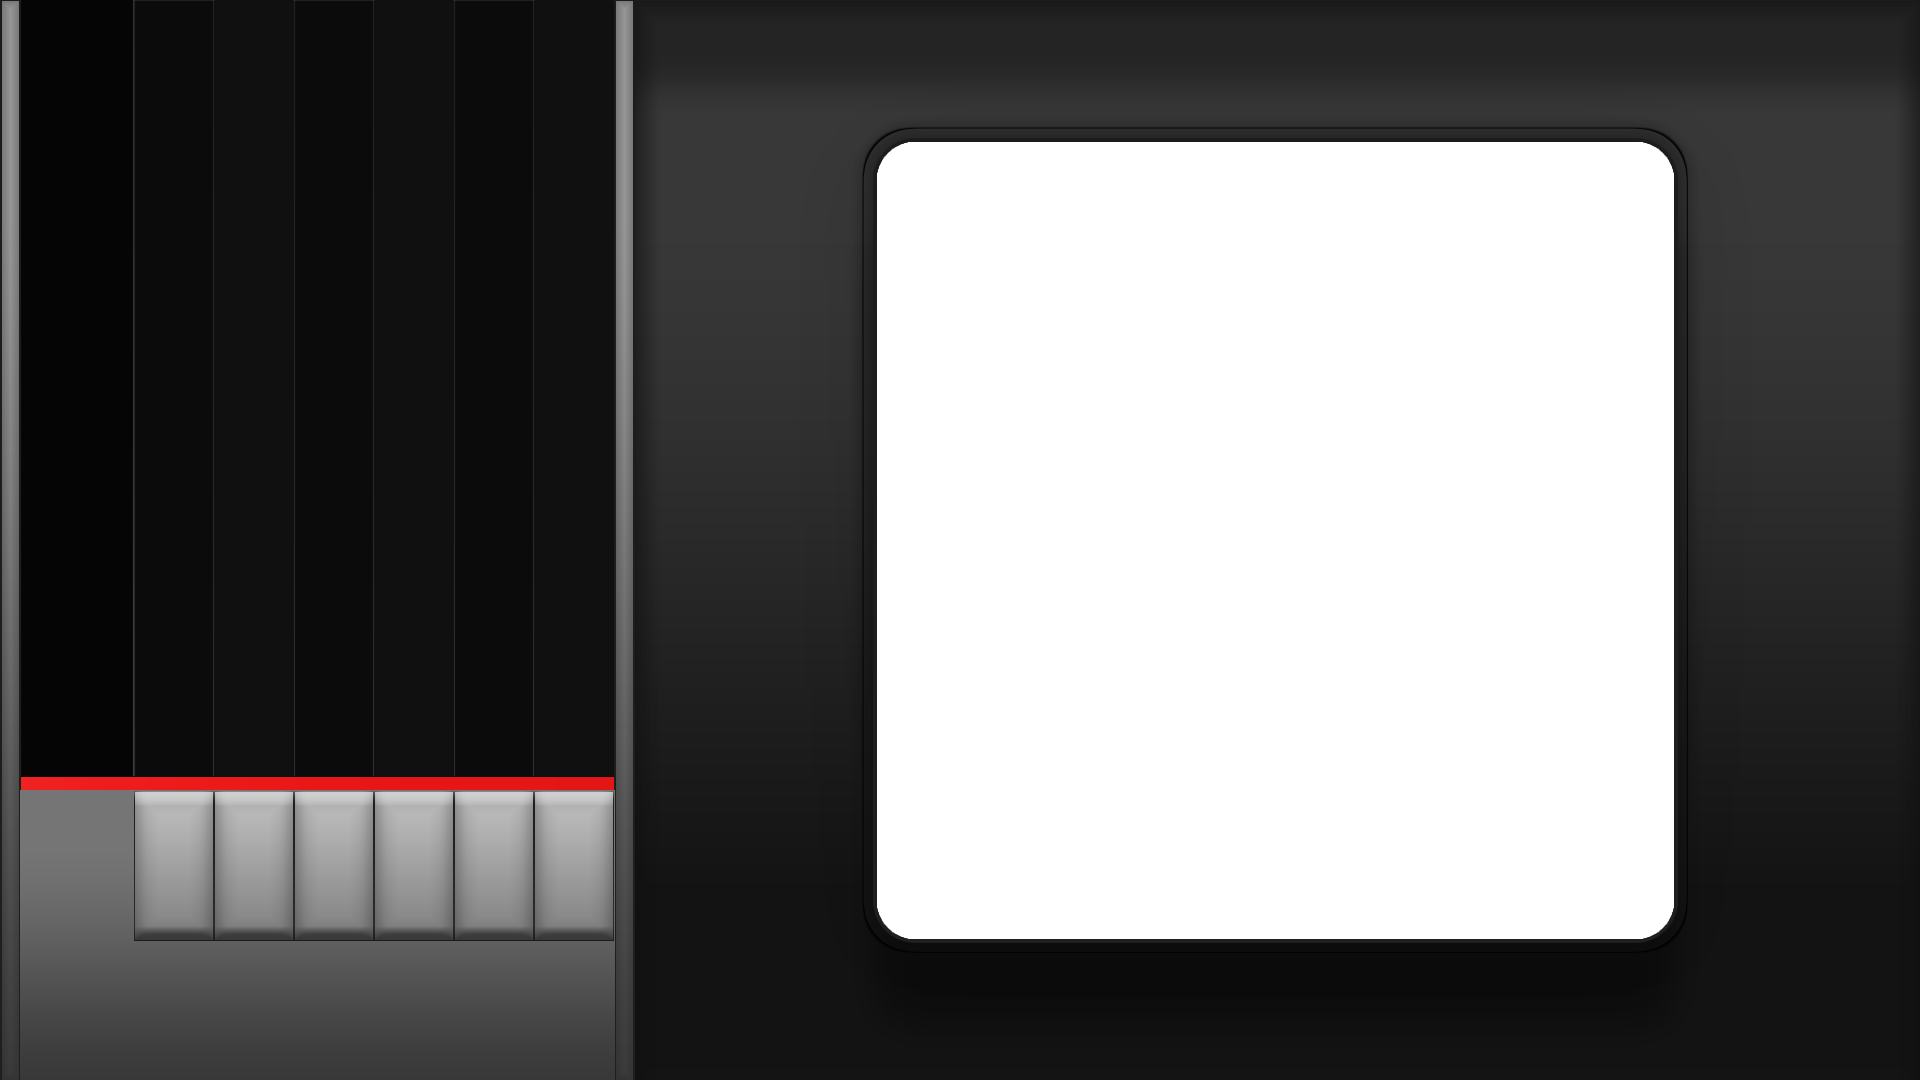
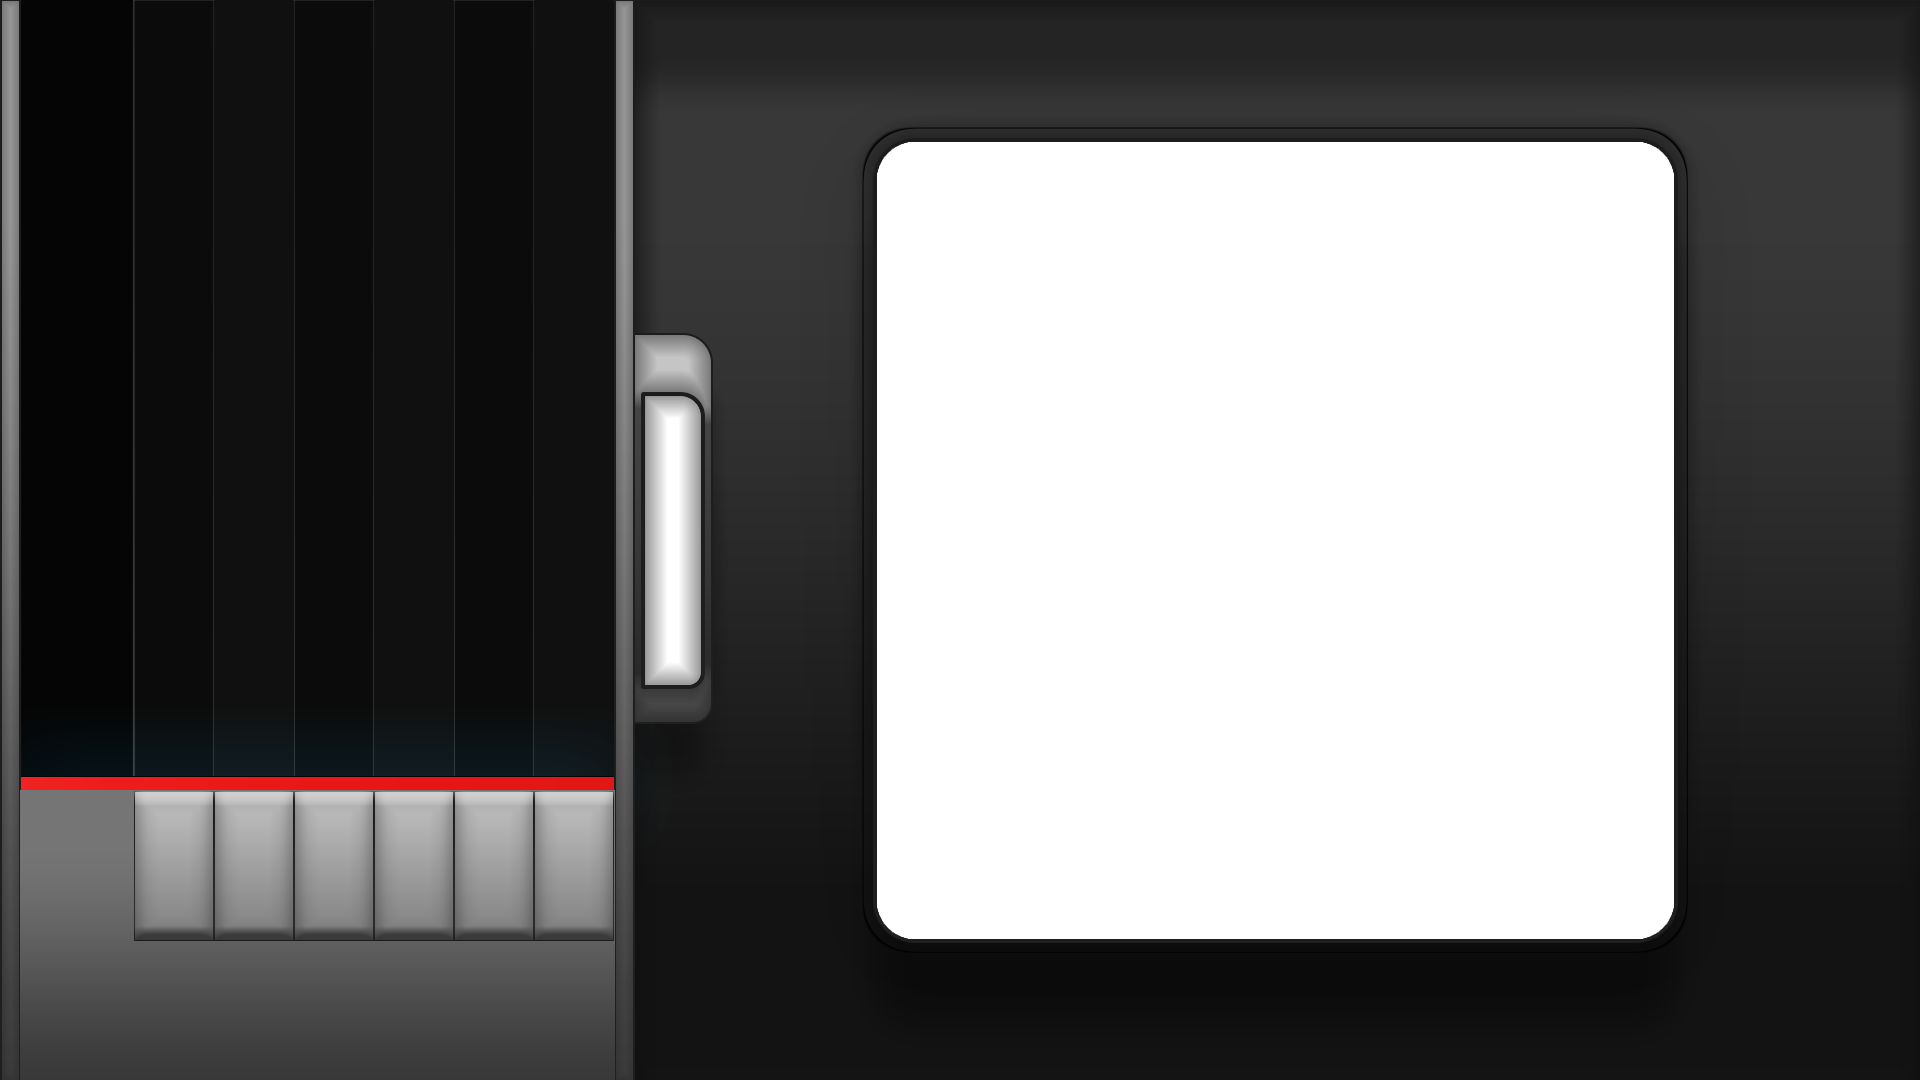
many things, including boost bar and new animations

Changed region(s): [[0.3125, 0.3056, 0.375, 0.6722]]

diff --git a/screens/game.py b/screens/game.py
@@ -28,9 +28,11 @@ class Game():
         self.judgeline = Animation("assets/judgeline.png", 9, True)
         self.error = Sprite("assets/error.png")
         self.hpbar = Animation("assets/hpbar.png", 100, True)
-        self.lanelights = [Sprite("assets/lanelight.png") for x in range(6)]
+        self.boostbar = Animation("assets/boostbar.png", 100, True)
+        self.boosteffect = Animation("assets/boosteffect.png", 35, False)
+        self.lanelights = [Animation("assets/lanelighta.png", 20, False) for x in range(6)]
         self.keylights = [Sprite("assets/keypress.png") for x in range(6)]
-        self.explosions = [Animation("assets/explosion6.png", 51, False) for x in range(6)]
+        self.explosions = [Animation("assets/explosion9.png", 9, False) for x in range(6)]
         self.keypresses = ["S", "D", "F", "J", "K", "L"]
         self.keypressesCurr = [False, False, False, False, False, False]
 
@@ -41,16 +43,24 @@ class Game():
         self.lifetxt.set_position(21, 5)
         self.infomenu.set_position(620, self.screen.height/2)
         self.error.set_position(877-850, 142)
+        self.boostbar.set_position(643, 395)
+        self.boostbar.set_total_duration(200)
+        self.boostbar.stop()
         self.hpbar.set_position(21, 0)
         self.hpbar.set_total_duration(200)
         self.hpbar.stop()
+        self.boosteffect.set_position(134, 1080-304-600)
+        self.boosteffect.set_total_duration(350)
+        self.boosteffect.stop()
         self.judgeline.set_position(20, 1080-303-40)
         self.judgeline.set_total_duration(self.bpm*2)
         self.judgeline.stop()
         self.judgeline.play()
         [e.stop() for e in self.explosions]
-        [e.set_total_duration(500) for e in self.explosions]
-        [self.explosions[e].set_position(134+40-250+80*e, 1080-304+20-125) for e in range(len(self.explosions))]
+        [e.set_total_duration(200) for e in self.explosions]
+        [self.explosions[e].set_position(134+40-150+80*e, 1080-304+20-150) for e in range(len(self.explosions))]
+        [e.stop() for e in self.lanelights]
+        [e.set_total_duration(50) for e in self.lanelights]
         [self.lanelights[e].set_position(135+78*e+2*e, 1080-304-self.lanelights[e].height) for e in range(len(self.lanelights))]
         [self.keylights[e].set_position(134+80*e, 1080-304+20) for e in range(len(self.keylights))]
 
@@ -58,6 +68,8 @@ class Game():
         self.hp = 100
         self.hpdiff = 0
         self.errortime = 200
+        self.boost = 0
+        self.boostdiff = 0
 
         self.hitsound = Sound("assets/hitsound.wav")
         self.hitsound.set_volume(0.3)
@@ -77,12 +89,13 @@ class Game():
             self.error.draw()
         elif self.errortime <= 0:
             self.errortime = 1
+        self.boostbar.set_curr_frame(self.boost-1)
+        self.boostbar.draw()
         self.gameplay.draw()
         self.hpbar.set_curr_frame(self.hp-1)
         self.hpbar.draw()
         self.lifetxt.draw()
         #self.infomenu.draw()
-        
 
         for x in range(len(self.notes)):
             n = 0
@@ -101,7 +114,8 @@ class Game():
 
         for x in range(6):
             if self.keyboard.key_pressed(self.keypresses[x]):
-                self.lanelights[x].draw()
+                self.lanelights[x].stop()
+                self.lanelights[x].play()
                 self.keylights[x].draw()
                 if self.keypressesCurr[x] == False and self.notes[x] != []:
                     self.keypressesCurr[x] = True
@@ -112,6 +126,7 @@ class Game():
                         self.explosions[x].play()
                         self.notes[x].pop(0)
                         self.hpdiff += 5
+                        if self.boostdiff < 100: self.boostdiff += 1
                         self.combo += 1
                     else:
                         self.errortime = 1 -self.screen.delta_time()
@@ -120,16 +135,23 @@ class Game():
             elif self.keypressesCurr[x] == True:
                 self.keypressesCurr[x] = False
 
+        if self.keyboard.key_pressed("SPACE") and self.boost == 100:
+            self.boostdiff = -300
+            self.boosteffect.play()
+
+        if self.boosteffect.is_playing():
+            self.boosteffect.update()
+            self.boosteffect.draw()
+
         if self.judgeline.is_playing():
             self.judgeline.draw()
             self.judgeline.update()
 
-        if self.hpdiff != 0:
-            if self.hp > 1 or self.hp < 100: self.hp += self.hpdiff * self.screen.delta_time()
-            self.hpdiff -= self.hpdiff * self.screen.delta_time() * 2
-        if self.hp < 0: self.hp = 0
-        elif self.hp > 100: self.hp = 100
+        [e.draw() for e in self.lanelights]
+        [e.update() for e in self.lanelights]
 
+        self.boostdiff, self.boost = self.diffCalc(self.boostdiff, self.boost)
+        self.hpdiff, self.hp = self.diffCalc(self.hpdiff, self.hp)
         [e.update() for e in self.explosions]
         [e.draw() for e in self.explosions]
 
@@ -144,6 +166,15 @@ class Game():
 
     def stop(self):
         pass
+
+    def diffCalc(self, diff, real):
+        if diff != 0:
+            if real > 1 or real < 100: real += diff * self.screen.delta_time()
+            diff -= diff * self.screen.delta_time() * 2
+        if real < 0: real = 0
+        elif real > 100: real = 100
+
+        return diff, real
 
     def loadNotes(self, path="songs/0/hd.sc"):
         notes = [[], [], [], [], [], [], []]

diff --git a/main.py b/main.py
@@ -8,18 +8,19 @@ window = Window(1920, 1080)
 scrGame = None
 scrMenu = Menu(window)
 
-# 0 - Menu
+# 0 - Menu 
 # 1 - Opções
 # 2 - Seleção
 # 3 - Jogo
 # 4 - Resultados
 
 while 1:
+    print(0 if window.delta_time() <= 0 else 1/window.delta_time())
     if CURR_PLY == 0 and GAME_STATE == 3:
         CURR_PLY = 3
         scrGame = Game(window)
     elif CURR_PLY == 3 and GAME_STATE != 3:
-        CURR_PLY = 0
+        CURR_P = 0
     window.set_background_color((0, 0, 0))
     if GAME_STATE == 0:
         scrMenu.run()
